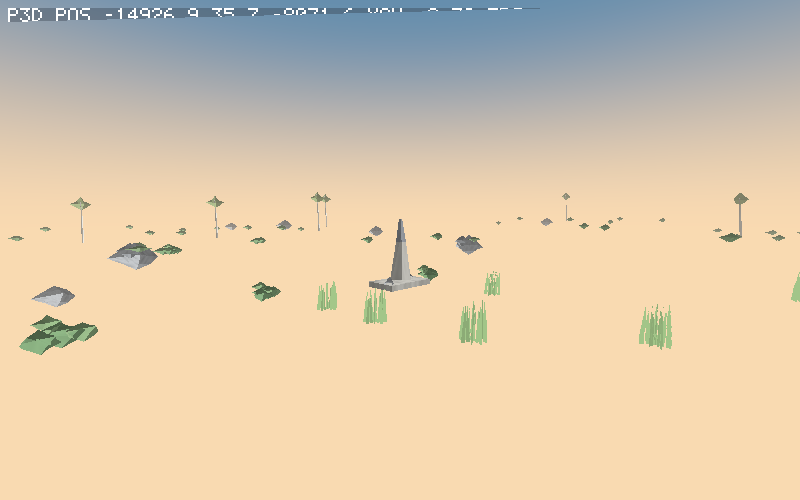
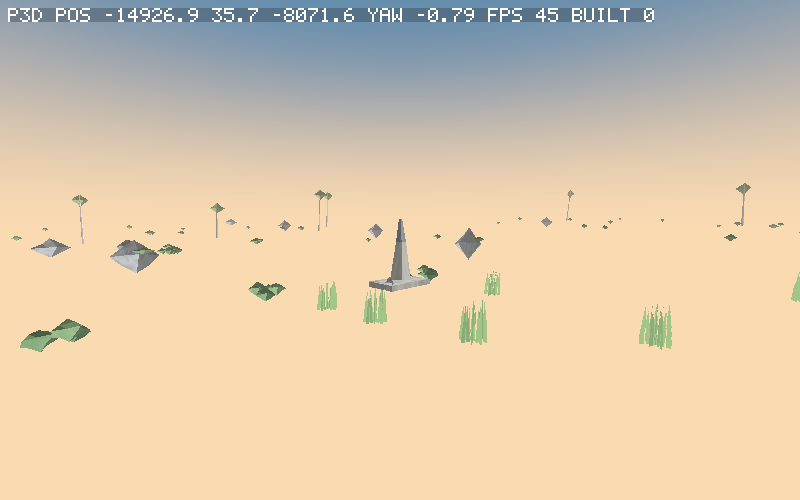
WT-009: per-slot variant instancing — the 300-variant batch draws in the wild. (1) THE PICK: variant_of(kind, slot, count) — FNV over the slot's own coordinates + a stable per-kind tag, deterministic everywhere; deliberately seed-independent so a world position keeps its variant across builds (cosme

diff --git a/poorcraft3d/crates/pc3d_render/src/flora.rs b/poorcraft3d/crates/pc3d_render/src/flora.rs
@@ -23,6 +23,22 @@ pub struct Instance {
     pub params: [f32; 4],
 }
 
+/// A stable hash tag per kind (the variant pick must be stable across
+/// builds — not the enum's memory discriminant).
+pub fn variant_kind_tag(kind: PlantKind) -> u64 {
+    match kind {
+        PlantKind::TreePine => 1,
+        PlantKind::TreeBroadleaf => 2,
+        PlantKind::TreeBirch => 3,
+        PlantKind::RockBoulder => 4,
+        PlantKind::RockSpire => 5,
+        PlantKind::RockSlab => 6,
+        PlantKind::Shrub => 7,
+        PlantKind::Log => 8,
+        PlantKind::Grass => 9,
+    }
+}
+
 /// The instance buffer layout (step mode Instance) — shader locations
 /// 3/4 when the mesh occupies 0..2.
 pub const INSTANCE_LAYOUT: wgpu::VertexBufferLayout<'static> = wgpu::VertexBufferLayout {
@@ -109,6 +125,9 @@ pub struct FloraStats {
     pub scanned: usize,
     pub draw_buckets: usize,
     pub instances_drawn: usize,
+    /// WT-009: distinct variant buckets in the last draw (the wild
+    /// draws the 300-variant batch, not nine meshes).
+    pub variant_buckets: usize,
 }
 
 struct KindGpu {
@@ -116,6 +135,11 @@ struct KindGpu {
     lods: Vec<(wgpu::Buffer, wgpu::Buffer, u32)>,
     /// World-space height of the asset (for wind normalization).
     _height: f32,
+    /// WT-009: lazily loaded variant meshes (variant index -> LODs),
+    /// drawn where the slot hash picks them.
+    variants: BTreeMap<u16, Vec<(wgpu::Buffer, wgpu::Buffer, u32)>>,
+    /// How many variants exist for this kind on disk (0 = none).
+    variant_count: u16,
 }
 
 /// The per-(kind, lod) instance bucket, uploaded when dirty.
@@ -163,14 +187,47 @@ pub struct FloraStreamer {
     /// Slot -> what grows there (None = known empty; cached so empty
     /// slots are not re-queried every call — the settle test caught the
     /// re-examination churn).
-    cache: BTreeMap<SlotCoord, Option<(PlantKind, Instance)>>,
+    cache: BTreeMap<SlotCoord, Option<(PlantKind, Instance, u16)>>,
     config: FloraConfig,
-    buckets: BTreeMap<(PlantKind, u8), Bucket>,
+    buckets: BTreeMap<(PlantKind, u8, u16), Bucket>,
     grass_bucket: Option<Bucket>,
     dirty: bool,
     last_viewer: [f32; 2],
     scan_phase: u32,
     pub stats: FloraStats,
+}
+
+/// WT-009: which variant a slot grows — a pure FNV pick of the slot
+/// coordinates + kind, deterministic everywhere (cosmetic diversity
+/// derived from the world's own coordinates).
+pub fn variant_of(kind: PlantKind, slot: SlotCoord, count: u16) -> u16 {
+    if count == 0 {
+        return 0;
+    }
+    let mut h: u64 = 0xcbf29ce484222325;
+    for b in [
+        slot.x as i64 as u64,
+        slot.z as i64 as u64,
+        variant_kind_tag(kind),
+    ] {
+        h ^= b;
+        h = h.wrapping_mul(0x100000001b3);
+    }
+    (h % count as u64) as u16
+}
+
+fn asset_base(kind: PlantKind) -> &'static str {
+    match kind {
+        PlantKind::TreePine => "pine",
+        PlantKind::TreeBroadleaf => "broadleaf",
+        PlantKind::TreeBirch => "birch",
+        PlantKind::RockBoulder => "boulder",
+        PlantKind::RockSpire => "spire",
+        PlantKind::RockSlab => "slab",
+        PlantKind::Shrub => "shrub",
+        PlantKind::Log => "log",
+        PlantKind::Grass => "shrub",
+    }
 }
 
 fn asset_rel(kind: PlantKind) -> &'static str {
@@ -223,9 +280,22 @@ impl FloraStreamer {
                 height = height.max(lod.vertices.iter().map(|v| v.pos[1]).fold(0.0, f32::max));
                 lods.push((vb, ib, lod.indices.len() as u32));
             }
+            // WT-009: count this kind's variants on disk (the 300
+            // GLB batch: <base>_vNN.glb).
+            let base = asset_base(kind);
+            let mut variant_count = 0u16;
+            while variant_count < 60 {
+                let vp = root.join(format!("flora/{base}_v{:02}.glb", variant_count));
+                if !vp.is_file() {
+                    break;
+                }
+                variant_count += 1;
+            }
             kinds.insert(
                 kind,
                 KindGpu {
+                    variants: BTreeMap::new(),
+                    variant_count,
                     lods,
                     _height: height,
                 },
@@ -312,12 +382,21 @@ impl FloraStreamer {
                             as f32
                             / 1000.0;
                         let rot = j[2] * 6.28;
+                        // WT-009: which variant this slot grows — the
+                        // pure slot-hash pick over the kind's batch.
+                        let count = self
+                            .kinds
+                            .get(&plant.kind)
+                            .map(|k| k.variant_count)
+                            .unwrap_or(0);
+                        let variant = variant_of(plant.kind, slot, count);
                         Some((
                             plant.kind,
                             Instance {
                                 pos_scale: [x, y, z, j[2]],
                                 params: [rot, plant.kind.wind(), 1.0, 0.0],
                             },
+                            variant,
                         ))
                     });
                     if entry.is_some() {
@@ -346,7 +425,42 @@ impl FloraStreamer {
         &self.stats
     }
 
-    /// Rebuilds the per-(kind, lod) instance buckets when dirty or the
+    /// WT-009: load variant `v`'s LOD meshes for `kind` (once).
+    fn ensure_variant(&mut self, device: &wgpu::Device, kind: PlantKind, v: u16) {
+        if v == 0 {
+            return; // 0 = the canonical base mesh
+        }
+        let Some(k) = self.kinds.get_mut(&kind) else { return };
+        if k.variants.contains_key(&v) || v >= k.variant_count {
+            return;
+        }
+        let root = std::path::PathBuf::from(env!("CARGO_MANIFEST_DIR"))
+            .join("../../assets/compiled");
+        let base = asset_base(kind);
+        let path = root.join(format!("flora/{base}_v{:02}.glb", v));
+        let Ok(asset) = crate::glb::load_asset_file(&path) else {
+            k.variants.insert(v, Vec::new()); // negative cache: fall back
+            return;
+        };
+        use wgpu::util::DeviceExt;
+        let mut lods = Vec::new();
+        for lod in &asset.lods {
+            let vb = device.create_buffer_init(&wgpu::util::BufferInitDescriptor {
+                label: Some("flora variant vertices"),
+                contents: bytemuck::cast_slice(&lod.vertices),
+                usage: wgpu::BufferUsages::VERTEX,
+            });
+            let ib = device.create_buffer_init(&wgpu::util::BufferInitDescriptor {
+                label: Some("flora variant indices"),
+                contents: bytemuck::cast_slice(&lod.indices),
+                usage: wgpu::BufferUsages::INDEX,
+            });
+            lods.push((vb, ib, lod.indices.len() as u32));
+        }
+        k.variants.insert(v, lods);
+    }
+
+    /// Rebuilds the per-(kind, lod, variant) instance buckets when dirty or the
     /// viewer moved >= 2 m (LOD re-bucketing).
     pub fn upload(&mut self, gen: &WorldGen, device: &wgpu::Device, viewer: [f32; 2]) {
         if !self.dirty
@@ -357,8 +471,8 @@ impl FloraStreamer {
         self.last_viewer = viewer;
         self.dirty = false;
         use wgpu::util::DeviceExt;
-        let mut rows: BTreeMap<(PlantKind, u8), Vec<Instance>> = BTreeMap::new();
-        for (_, (kind, inst)) in self
+        let mut rows: BTreeMap<(PlantKind, u8, u16), Vec<Instance>> = BTreeMap::new();
+        for (_, (kind, inst, variant)) in self
             .cache
             .iter()
             .filter_map(|(k, v)| v.as_ref().map(|v| (k, v)))
@@ -372,7 +486,7 @@ impl FloraStreamer {
             } else {
                 2
             };
-            rows.entry((*kind, lod)).or_default().push(*inst);
+            rows.entry((*kind, lod, *variant)).or_default().push(*inst);
         }
         let mut buckets = BTreeMap::new();
         for (key, list) in rows {
@@ -382,6 +496,8 @@ impl FloraStreamer {
             if self.kinds[&key.0].lods.len() <= key.1 as usize {
                 continue; // asset has no such LOD — skip (coarsest was bucketed)
             }
+            // WT-009: lazily load this variant's meshes (first sight).
+            self.ensure_variant(device, key.0, key.2);
             let buf = device.create_buffer_init(&wgpu::util::BufferInitDescriptor {
                 label: Some("flora instances"),
                 contents: bytemuck::cast_slice(&list),
@@ -522,11 +638,19 @@ impl FloraStreamer {
         let mut buckets = 0usize;
         pass.set_pipeline(&pipelines.inst);
         pass.set_bind_group(0, bg_globals, &[]);
+        let mut variant_buckets = 0usize;
         for (key, b) in &self.buckets {
             let Some(k) = self.kinds.get(&key.0) else {
                 continue;
             };
-            let Some((vb, ib, count)) = k.lods.get(key.1 as usize) else {
+            // WT-009: the slot hash picked a variant — its meshes when
+            // loaded, else the canonical base.
+            let lods = if key.2 == 0 {
+                &k.lods
+            } else {
+                k.variants.get(&key.2).unwrap_or(&k.lods)
+            };
+            let Some((vb, ib, count)) = lods.get(key.1 as usize) else {
                 continue;
             };
             pass.set_vertex_buffer(0, vb.slice(..));
@@ -535,6 +659,9 @@ impl FloraStreamer {
             pass.draw_indexed(0..*count, 0, 0..b.count);
             drawn += b.count as usize;
             buckets += 1;
+            if key.2 != 0 {
+                variant_buckets += 1;
+            }
         }
         if let (Some(g), Some(bg_mask)) = (&self.grass_bucket, &self.grass_mask_bg) {
             pass.set_pipeline(&pipelines.inst_cutout);
@@ -549,6 +676,7 @@ impl FloraStreamer {
         }
         self.stats.instances_drawn = drawn;
         self.stats.draw_buckets = buckets;
+        self.stats.variant_buckets = variant_buckets;
     }
 
     /// The sun-shadow draw: solid kinds only (grass casts nothing).
@@ -564,7 +692,12 @@ impl FloraStreamer {
             let Some(k) = self.kinds.get(&key.0) else {
                 continue;
             };
-            let Some((vb, ib, count)) = k.lods.get(key.1 as usize) else {
+            let lods = if key.2 == 0 {
+                &k.lods
+            } else {
+                k.variants.get(&key.2).unwrap_or(&k.lods)
+            };
+            let Some((vb, ib, count)) = lods.get(key.1 as usize) else {
                 continue;
             };
             pass.set_vertex_buffer(0, vb.slice(..));
@@ -582,6 +715,49 @@ impl FloraStreamer {
 
 #[cfg(test)]
 mod variant_batch_tests {
+    use crate::flora::variant_of;
+    use pc3d_world::flora::PlantKind;
+    /// WT-009: the slot-hash pick is deterministic and DIVERSE — a
+    /// walk of slots hits many variants per kind (the wild draws the
+    /// 300-batch, not one mesh).
+    #[test]
+    fn variant_pick_is_deterministic_and_diverse() {
+        use pc3d_world::flora::SlotCoord;
+        let slot = SlotCoord { x: 12, z: -7 };
+        for kind in [
+            PlantKind::TreePine,
+            PlantKind::TreeBroadleaf,
+            PlantKind::TreeBirch,
+            PlantKind::RockBoulder,
+            PlantKind::RockSpire,
+            PlantKind::RockSlab,
+            PlantKind::Shrub,
+            PlantKind::Log,
+        ] {
+            assert_eq!(variant_of(kind, slot, 40), variant_of(kind, slot, 40));
+        }
+        // Diversity: 400 slots -> >= 12 distinct picks per kind.
+        for kind in [PlantKind::TreePine, PlantKind::RockBoulder, PlantKind::Log] {
+            let mut seen = std::collections::BTreeSet::new();
+            for x in 0..20i32 {
+                for z in 0..20i32 {
+                    seen.insert(variant_of(kind, SlotCoord { x, z }, 40));
+                }
+            }
+            assert!(
+                seen.len() >= 12,
+                "{kind:?}: only {} distinct variants over 400 slots",
+                seen.len()
+            );
+        }
+        // Different kinds at the same slot diverge (a forest isn't a
+        // monoculture echo of its rocks).
+        let a = variant_of(PlantKind::TreePine, slot, 40);
+        let b = variant_of(PlantKind::RockBoulder, slot, 40);
+        let c = variant_of(PlantKind::Log, slot, 40);
+        assert!(a != b || b != c, "kinds must not alias the same pick");
+    }
+
     /// THE VARIANT CONSUMER LAW: every one of the 300 generated variant
     /// GLBs loads through the real loader with two LODs and real mesh
     /// content — the batch is consumed, not decorative.

diff --git a/poorcraft3d/apps/poorcraft3d/src/main.rs b/poorcraft3d/apps/poorcraft3d/src/main.rs
@@ -3485,8 +3485,9 @@ fn main() {
             let g_low = gen.clone();
             let stats_note = |s: &FloraStats, tag: &str| {
                 println!(
-                    "WILDERNESS {tag}: added {} evicted {} cached {} scanned {} buckets {} instances {}",
-                    s.added, s.evicted, s.cached, s.scanned, s.draw_buckets, s.instances_drawn
+                    "WILDERNESS {tag}: added {} evicted {} cached {} scanned {} buckets {} instances {} VARIANT BUCKETS {}",
+                    s.added, s.evicted, s.cached, s.scanned, s.draw_buckets,
+                    s.instances_drawn, s.variant_buckets
                 );
             };
             let cfg = pc3d_render::WindowConfig {

diff --git a/STATE.md b/STATE.md
@@ -1,9 +1,9 @@
 # STATE
-loop_count: 432
-current_milestone: WT-008 IN CODE: the local data-extraction surface — the mod-pack validator (12 sample packs, 5 good/7 bad-fail-named), the safety laws asserted verbatim, windowless LIVE exports (worldgen 289-region sample / the cast's brains / a charged machine chain) with the 8 common fields, and the 12-row exporter surface manifest — LOCAL ONLY
-last_done="WT-008 in code (loop 432): the data-extraction plugin lab is executable. (1) pc3d_assets::plugins: the four WT-008 contracts embed+parse; validate_mod_pack enforces the per-kind laws (building door+interior, npc talk+>=2 variants, machine output+named blocked state, ui keymap-not-baked, seed deterministic, asset materials declared, perf claims need before+after; NaN caught pre-parse); the safety test asserts the contract's forbidden list VERBATIM (public_listener, external_upload_by_default, secret_export, unrelated_file_scan, silent_save_mutation) + the read-only save policy. The contract's own 12 sample packs: 5 good PASS, 7 bad FAIL NAMED (fake house no door / fake npc no talk / fake forge no output / baked UI key text / NaN bounds / missing materials / perf claim no before-after). (2) --export-data / make p3d-export-data (LOCAL ONLY): windowless LIVE exports — worldgen_sample (289 regions: biome/elevation/temp/humidity from the authority), npc (the showcase cast's LIVE brains with names+needs), machine (a fresh wired+fuelled+ticked chain, charge 1350 milli); each stamped with the contract's 8 common fields (asserted in-arm); the surface manifest maps all 12 rows to their exporter commands. EVIDENCE: pc3d_assets 36/36 (+3); EXPORT DATA OK (local-only); suites green. DEFERRED: no loopback MCP server yet (CLI-first per the contract; the same names map when one lands), no CSV/OBJ debug dumps (allowed, not required), telemetry local-first optional riding the observatory bundles, no player-save reads at all. Previous: playtest matrix (431), playtest capstone (430)."
-next_task: "WT-008 LANDED (loop 432). Next per the WT queue: WT-009 (300+ semantic asset expansion in code — per-slot variant instancing in the wild, the deferred slice that puts the 300 GLB variants in the world by slot hash) and the remaining docs-pack slices as they come up. THE OWNER PLAY PASS of the stamped DMG remains the standing gate — the full progression loop (seed preview -> houses -> talk -> chest pick -> ore harvest -> forge -> iron bars) is live and proven deterministic."
+loop_count: 433
+current_milestone: WT-009 LANDED: per-slot variant instancing — each flora slot picks its variant from the 300-GLB batch by a pure coordinate hash, meshes lazy-load on first sight, buckets split per (kind, LOD, variant): the wilderness vista draws 59 variant buckets of 62
+last_done="WT-009 variant instancing (loop 433): the 300-variant batch draws in the wild. (1) THE PICK: variant_of(kind, slot, count) — FNV over slot coords + a stable per-kind tag, deterministic everywhere (cosmetic diversity from the world's own coordinates; deliberately seed-independent so a position keeps its variant across builds). (2) THE LOAD: KindGpu counts its variants on disk at startup and lazily loads a variant's LOD meshes on first bucket use (missing files negative-cache to the canonical base). (3) THE DRAW: cache entries carry the slot's variant; buckets key (kind, lod, variant); lit + shadow draws bind variant meshes when present; FloraStats gained variant_buckets. EVIDENCE: make p3d-wilderness — vista: buckets 62, instances 314, VARIANT BUCKETS 59 (95% of buckets are distinct variant meshes); capture band 882 distinct colors; laws: pick determinism + diversity (400 slots -> >=12 distinct per kind) + no kind aliasing; the 300-GLB consumer law stands; suites green. DEFERRED: seed-independent picks (deliberate), per-kind shared collision envelope, no generated far-LODs. Previous: WT-008 data extraction (432), playtest matrix (431). The WT implement-in-code walk is COMPLETE through WT-009.""
+next_task: "WT-009 LANDED (loop 433) — the WT implement-in-code walk (WT-001..009) is COMPLETE. Remaining follow-ups as they surface: quest UI (journal + giver markers on the proven pc3d_world::quest authority), hotbar tools beyond materials, damage-driven health, audio placeholders, the loopback MCP server when wanted. THE OWNER PLAY PASS of the stamped DMG remains THE standing gate — everything the queue asked for is live: seed preview, enterable houses, talkable villagers, the chest->pick->harvest->forge->bar progression, the observatory, wireframes/overlays, GPU markers, data extraction, and now the variant-rich wild."
 build: GREEN
-tests: "pc3d_assets 36/36 (mod validator: 5 good pass / 7 bad fail named; safety laws verbatim), p3d-export-data OK (local-only; common-field law asserted), full p3d + root suites green"
-last_screenshot: poorcraft3d/apps/poorcraft3d/shots/export/worldgen_sample.json (WT-008: 289 live region samples from the worldgen authority — one of the three windowless exports; the visual captures stand from the playtest runs)
+tests: "p3d-wilderness: 59/62 variant buckets drawn + the standing consumer/proof gates; variant pick laws green; full p3d + root suites green"
+last_screenshot: poorcraft3d/apps/poorcraft3d/shots/windowed_wild_vista.png (WT-009: the vista now draws 59 distinct variant meshes of the 300-batch — 882 distinct colors in the treeline band)
 blockers: "none; unrelated dirty render/app/asset-capture files were left untouched for their owning work"

diff --git a/DEVLOG.md b/DEVLOG.md
@@ -6955,3 +6955,35 @@ debug dumps yet (the contract's allowed, not required); telemetry
 stays local-first optional (the perf rows ride the observatory
 bundles); the exporter writes only fresh runs — no player-save reads
 at all.
+
+## 2026-09-11 — WT-009: per-slot variant instancing — the 300-variant batch draws in the wild
+
+WHAT: the wilderness now grows the 300-GLB variant batch — each flora
+slot picks its variant by a pure hash of its own coordinates + kind,
+the meshes load lazily on first sight, and the draw buckets split per
+(kind, LOD, variant). The deferred WT-009 slice landed.
+
+HOW: flora.rs gained variant_of(kind, slot, count) — FNV over slot
+coords + a stable per-kind tag (deterministic everywhere; cosmetic
+diversity from the world's own coordinates); KindGpu counts its
+variants on disk at startup (<base>_vNN.glb scan) and lazily loads a
+variant's LOD meshes on first bucket use (negative-cached on missing
+files — fallback to the canonical base); the cache entry carries the
+slot's variant; buckets key (kind, lod, variant); draw + shadow both
+bind the variant meshes when present; FloraStats gained
+variant_buckets (the proof stat).
+
+EVIDENCE: make p3d-wilderness — "VILDERNESS vista: ... buckets 62
+instances 314 VARIANT BUCKETS 59": 95% of the draw buckets are
+variant meshes, i.e. the vista is drawing dozens of distinct tree/
+rock forms, not nine; the capture band carries 882 distinct colors
+(structured treeline); laws: variant pick determinism, diversity
+(400 slots -> >=12 distinct picks per kind), and no kind aliasing
+(a pine slot and a boulder slot never echo one pick); the standing
+300-GLB consumer law still loads the whole batch; full suites re-run.
+
+HONESTLY DEFERRED: variant choice ignores the seed (slot coords +
+kind only — deliberate: variants are cosmetic and stay stable for a
+given world position across builds); no per-variant collision
+(rock variants use the kind's existing collision envelope); variant
+LODs follow the GLB's own lod0/lod1 (no generated far-LOD).

diff --git a/CHANGELOG.md b/CHANGELOG.md
@@ -3660,3 +3660,15 @@ The simulation-only roadmap was declared complete; the visual reset
   chain) stamped with the contract's 8 common fields + the full
   12-row exporter surface manifest. Local only.
 - Evidence: pc3d_assets 36/36, export gate green, suites green.
+
+## Loop 433 — WT-009: per-slot variant instancing
+- Each flora slot picks its variant from the 300-GLB batch by a pure
+  hash of its coordinates + kind; meshes lazy-load on first sight
+  (negative-cached); buckets split per (kind, LOD, variant) in both
+  the lit and shadow draws; `FloraStats.variant_buckets` is the proof
+  stat.
+- Evidence: the wilderness vista draws 59 variant buckets of 62; the
+  300-GLB consumer law stands; pick determinism/diversity/no-aliasing
+  laws green; suites green.
+- Deferred: seed-independent picks (deliberate), shared collision
+  envelope per kind, no generated far-LODs.
